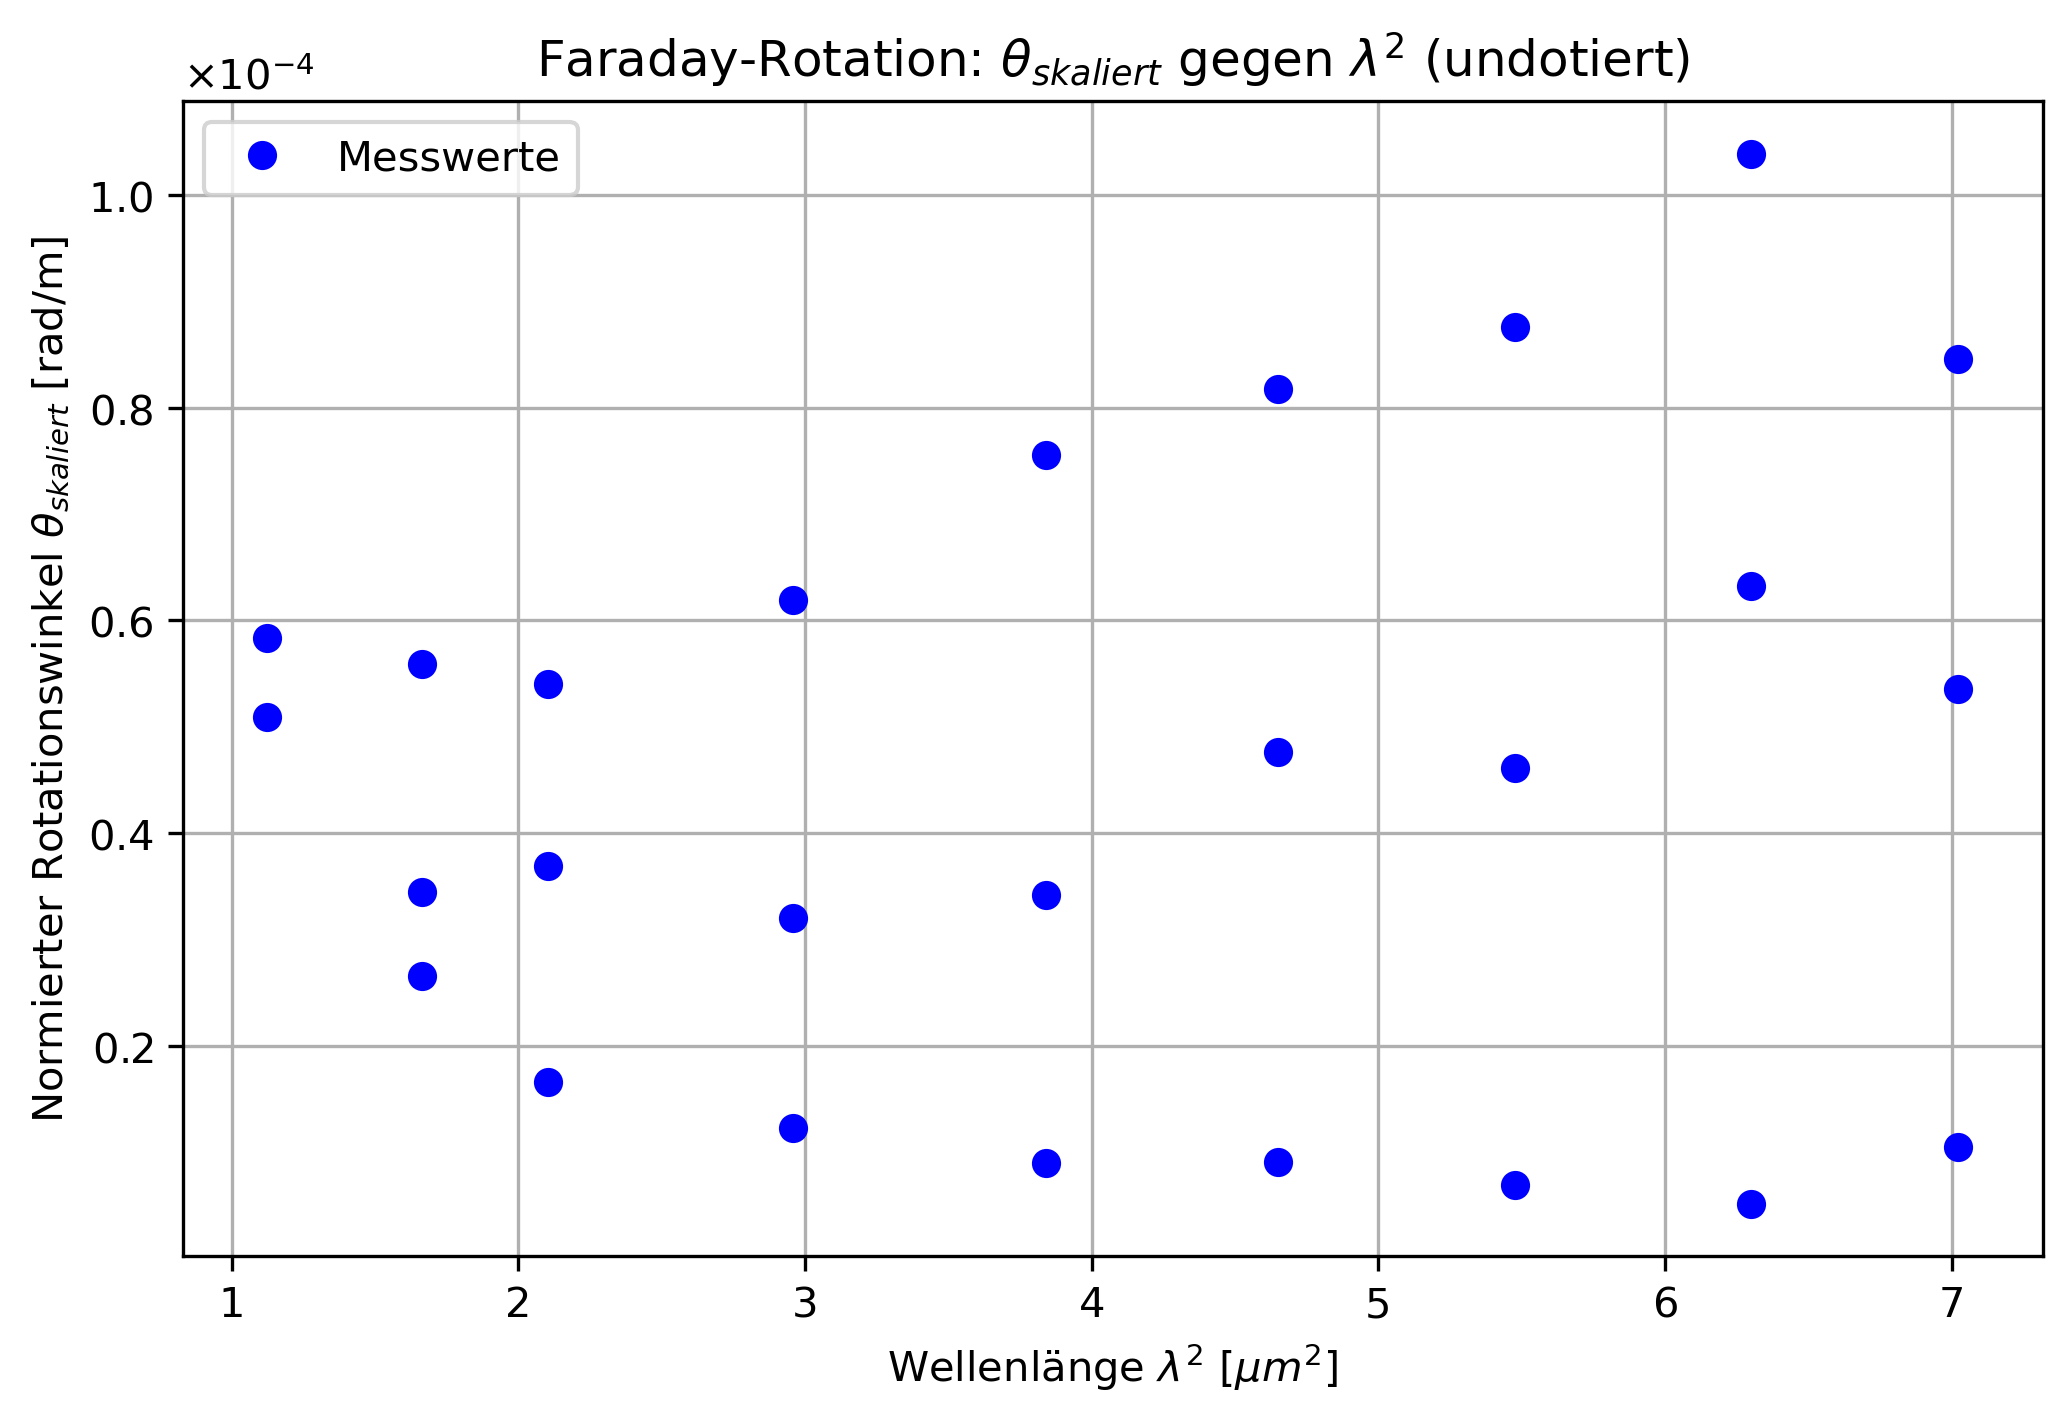
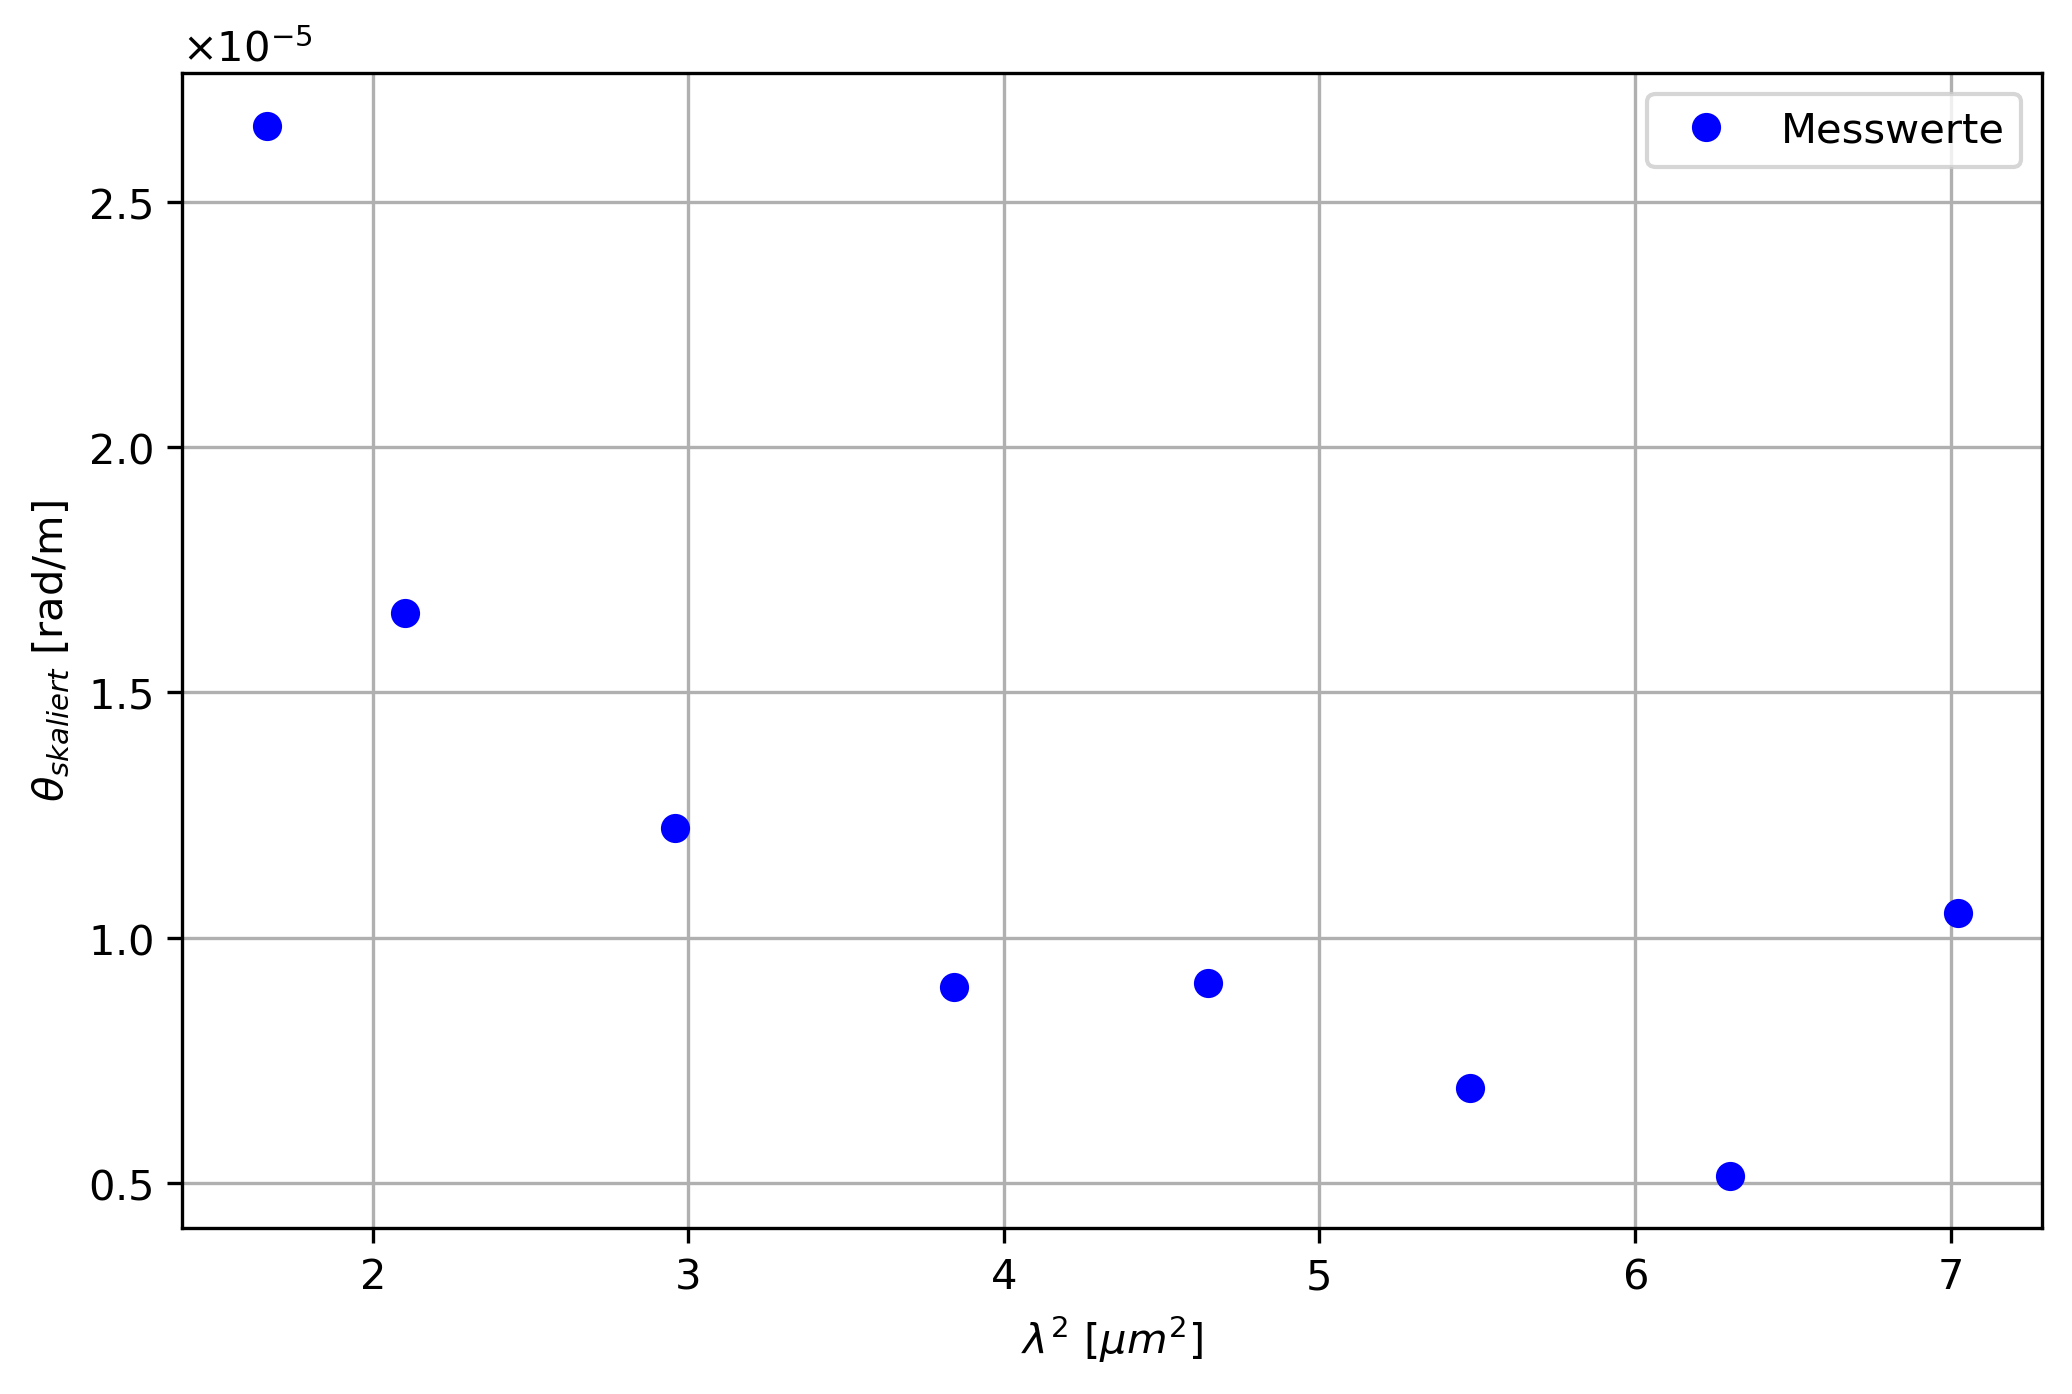
bissl auswertung

diff --git a/v46/undotiert.py b/v46/undotiert.py
@@ -4,12 +4,12 @@ import matplotlib.pyplot as plt
 dir = "content/plots/"
 dir_tab = "content/tables/"
 
-# Datei einlesen
+# Datei einlesen (erste Zeile / Header wird übersprungen)
 df = pd.read_excel('raw/undotiert.ods', engine='odf', skiprows=1)
 
-# Spalten auslesen
-wellenlaenge = df.iloc[:, 1].astype(str).str.replace(',', '.').astype(float)
-theta_skaliert = df.iloc[:, 6].astype(str).str.replace(',', '.').astype(float)
+# NEU: Nur Zeilen 2 bis 10 (was im DataFrame Index 0 bis 8 entspricht) auslesen
+wellenlaenge = df.iloc[0:9, 1].astype(str).str.replace(',', '.').astype(float)
+theta_skaliert = df.iloc[0:9, 6].astype(str).str.replace(',', '.').astype(float)
 
 # Wellenlänge quadrieren
 lambda_sq = wellenlaenge ** 2
@@ -18,12 +18,11 @@ lambda_sq = wellenlaenge ** 2
 plt.figure(figsize=(8, 5))
 plt.plot(lambda_sq, theta_skaliert, 'bo', label='Messwerte')
 
-# NEU: Wissenschaftliche Notation für die y-Achse aktivieren
+# Wissenschaftliche Notation für die y-Achse aktivieren
 plt.ticklabel_format(style='sci', axis='y', scilimits=(0,0), useMathText=True)
 
-plt.xlabel(r'Wellenlänge $\lambda^2$ [$\mu m^2$]')
-plt.ylabel(r'Normierter Rotationswinkel $\theta_{skaliert}$ [rad/m]')
-plt.title(r'Faraday-Rotation: $\theta_{skaliert}$ gegen $\lambda^2$ (undotiert)')
+plt.xlabel(r'$\lambda^2$ [$\mu m^2$]')
+plt.ylabel(r'$\theta_{skaliert}$ [rad/m]')
 
 plt.grid(True)
 plt.legend()

diff --git a/v46/content/auswertung.tex b/v46/content/auswertung.tex
@@ -70,6 +70,22 @@ Zur Bestimmung des maximalen B-Feldes, also dem B-Feld in dem unsere Proben sitz
 
 \subsection{Drehwinkel der Proben}
 
+Die Eigenschaften der einzelnen Proben sind in folgender Tabelle dargestellt. Hierbei ist $N$ die Dotierungskonzentration, $d$ die Dicke der Probe und $n$ der Brechungsindex der Probe.
+\begin{table}[H]
+    \centering
+    \caption{Eigenschaften der Proben.}
+
+    \begin{tabular}{lccc}
+        \toprule
+        & \textbf{Probe 1} & \textbf{Probe 2} & \textbf{Probe 3} \\
+        \midrule
+        $N$ [cm$^{-3}$] & $2,8 \cdot 10^{18}$ & $1,2 \cdot 10^{18}$ & $0$ \\
+        $d$ [mm] & $1,296$ & $1,36$ & $5,11$ \\
+        $n$ & $3,3543$ & $3,3543$ & $3,3543$ \\
+        \bottomrule
+    \end{tabular}
+\end{table}
+
 Im nächsten Schritt werden die Messwerte der Drehwinkel der einzelnen Proben bei verschieden Wellenlängen der Interferenzfilter aufgetragen.
 
 \begin{table}[htpb]
